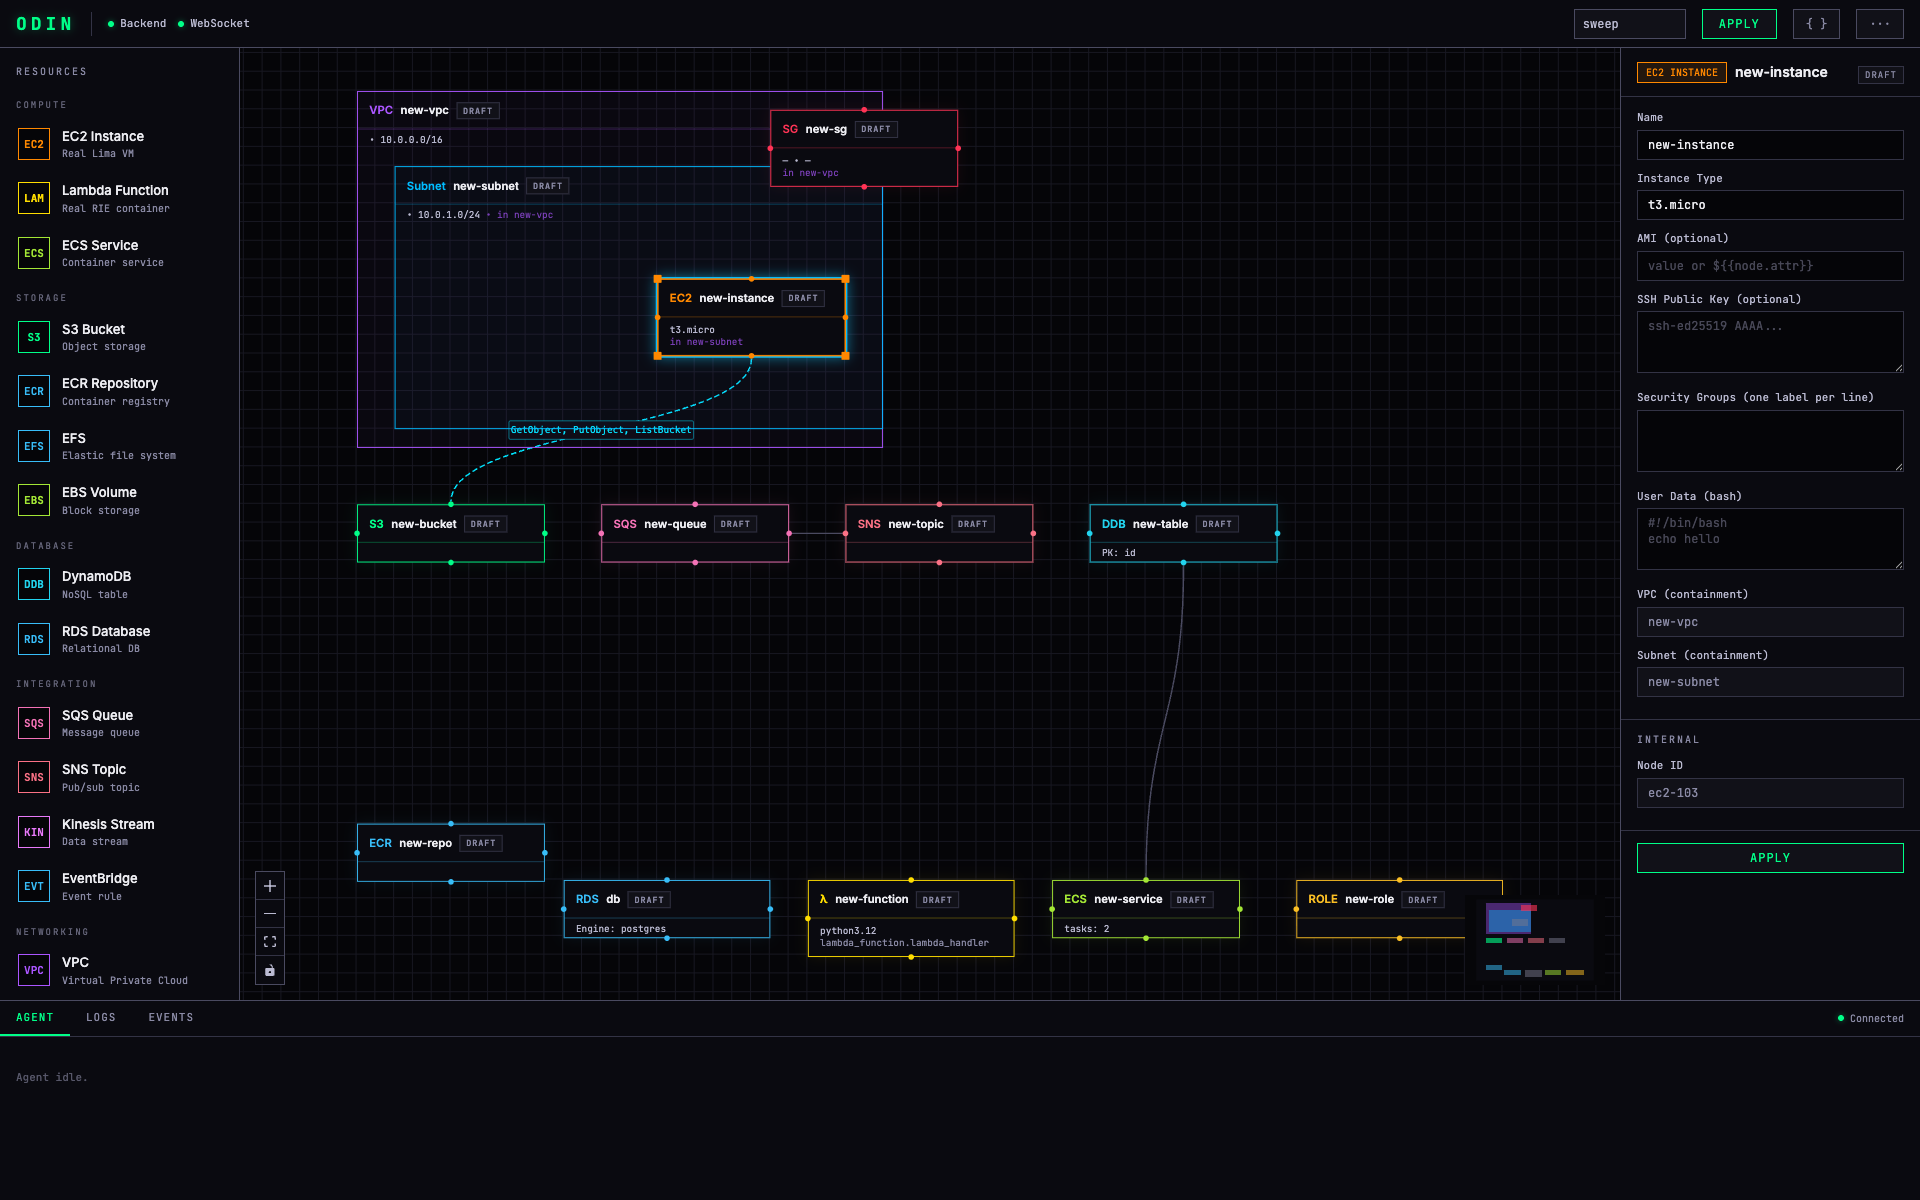
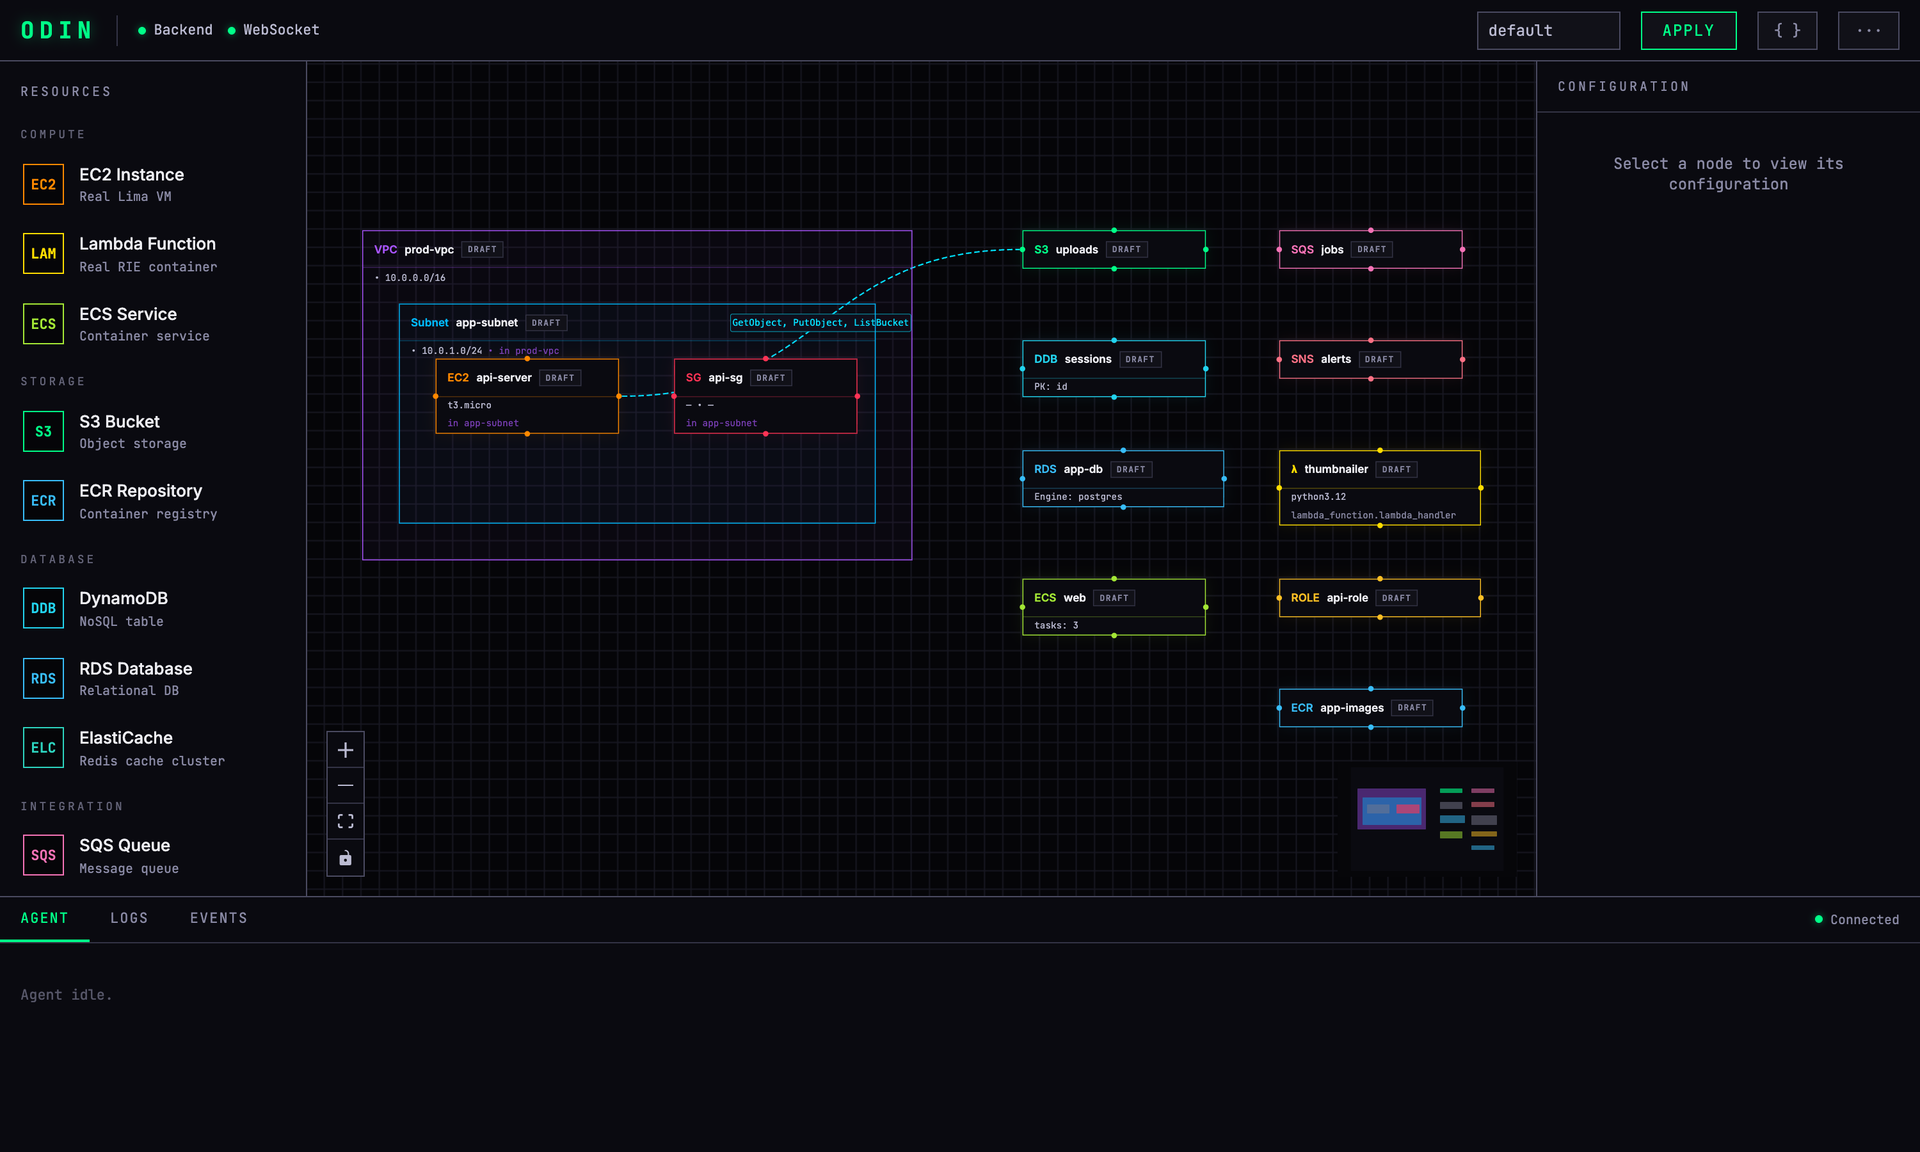
docs(readme): a current hero image, and what regenerating it turned up
The old one was four days and several releases stale. The new canvas is authored
through `odin canvas set` and captured from a live browser, so it shows what odin
actually renders today: the VPC/Subnet/EC2 stack with an SG, S3/SQS/SNS/DynamoDB/
RDS, a Lambda, an ECS service, an IAM role and an ECR repo, with the EC2 -> S3
IAM edge labelled GetObject, PutObject, ListBucket.

It also demonstrates the containment change shipping alongside it: EC2 and the SG
both read "in app-subnet" and the subnet reads "in prod-vpc" -- stamped by
odin from strict full-rect geometry, not inferred by eye.

One finding recorded in ROADMAP rather than fixed here: I first wrote
`"type": "role"` where the catalog kind is `iam_role`, and odin drew a blank
white rectangle with no indication the type was unrecognised. It reads as a
rendering bug rather than a typo in the input -- I briefly took it for one. Same
family as the missing-handles bug: a hand-authored canvas is a first-class input,
so an unknown kind should say so on the node instead of drawing something
meaningless.

diff --git a/ROADMAP.md b/ROADMAP.md
@@ -1131,6 +1131,19 @@ future decision against these points instead of re-deriving them:
 
 ## Next — known, measured, not yet fixed
 
+- [ ] **An unknown node `type` renders as a blank white box, silently.** Found
+  while regenerating the README hero: the canvas said `"type": "role"` where the
+  catalog kind is `iam_role`, and odin drew an unlabelled white rectangle with no
+  hint that the type was unrecognised. It looks like a rendering bug in odin
+  rather than a typo in the canvas -- I assumed it was one for a minute myself.
+
+  Same family as the missing-handles bug, and the same fix direction: a canvas
+  is a first-class hand-authored input (`odin canvas set`, the translation agent
+  next), so an unrecognised kind should SAY so on the node -- and `POST /canvas`
+  could name it the way `canvas_problems` already names a malformed label,
+  without refusing the canvas (an unknown kind is applied-and-skipped by design,
+  not invalid).
+
 - [ ] **The edge-type selector, when there is anything to select.** Owner design
   call (2026-07-28): what an edge MEANS depends on the components it connects,
   and where a pair could legitimately mean more than one thing odin should ASK
